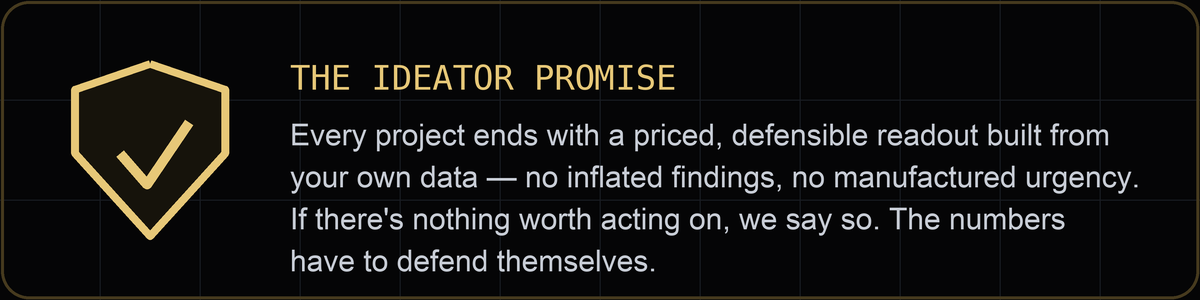
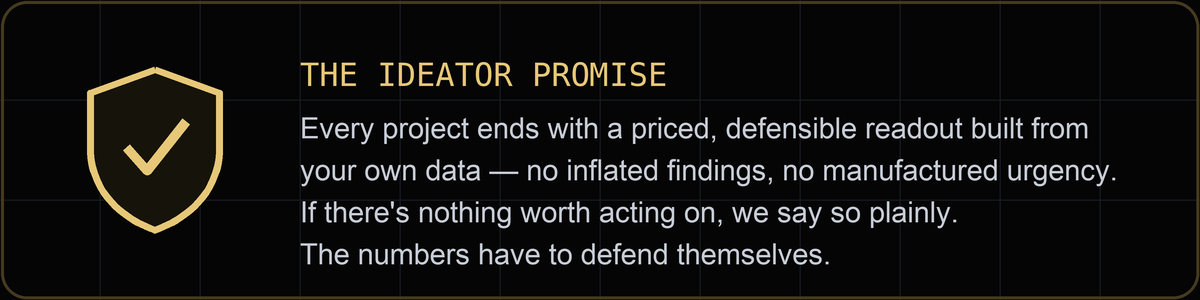
feat: full-site README — gold section headers, all sections, fixed shield

diff --git a/profile/README.md b/profile/README.md
@@ -1,4 +1,4 @@
-<img src="https://raw.githubusercontent.com/ideatorlabs/.github/main/assets/banner.png" alt="Ideator Labs — We find the margin. Then we build the machine." width="100%">
+<img src="https://raw.githubusercontent.com/ideatorlabs/.github/main/assets/banner.png" width="100%" alt="Ideator Labs — We find the margin. Then we build the machine.">
 
 <p align="center">
   <a href="https://ideatorlabs.github.io"><img src="https://img.shields.io/badge/site-ideatorlabs.github.io-E7C878?style=flat-square&labelColor=050506" alt="Website"></a>
@@ -6,34 +6,72 @@
   <img src="https://img.shields.io/badge/base-India_·_remote_worldwide-9BA0AC?style=flat-square&labelColor=050506" alt="Location">
 </p>
 
-**Ideator Labs** is an early-stage AI studio — an advisory approach and a set of venture experiments. The idea: apply the scientific method to business operations (hypothesis → instrumentation → measurement → verdict), then engineer the AI and automation that capture what the measurements expose. Built in the open, one project at a time.
+**Ideator Labs** is an early-stage AI studio — an advisory approach and a set of venture experiments. The idea: apply the scientific method to business operations (hypothesis → instrumentation → measurement → verdict), then engineer the AI and automation that capture what the measurements expose. Fixed-scope, senior-only, built in the open — one project at a time.
 
-## 🔬 Advisory — the approach
+> **We find the margin. Then we build the machine.**
 
-| | |
+<br>
+
+<img src="https://raw.githubusercontent.com/ideatorlabs/.github/main/assets/hdr-findings.png" width="100%" alt="Field Findings — what the data keeps showing">
+
+The same patterns show up in nearly every operations-heavy business — professional services, logistics & distribution, manufacturing, multi-site healthcare. Each is measurable, and each is money.
+
+| Signal | Finding |
 |---|---|
-| **Diagnostic Sprint** | 2–4 weeks. We mine your data and price every leak — a priced opportunity map you own either way. |
-| **Roadmap & Business Case** | The sequenced 12-month plan, every initiative costed with its payback period. |
-| **Build Retainer** | Document AI, workflow automation, KPI dashboards, AI copilots — shipped monthly, measured against baseline. |
-| **Advisory** | Quarterly business reviews, accountable to the cumulative value number — not to slides. |
+| **Profitability** | **15–30%** of customers are typically unprofitable — invisible until margin is measured per customer / SKU / job |
+| **Capacity** | **20–40%** of admin payroll goes to manual work AI can now do — documents, rekeying, status-chasing, reconciliation |
+| **Pricing** | one point of unmanaged pricing moves profit **8–12%** — the highest-ROI fix that exists |
+| **Service** | **30–60%** cut in cost-per-contact with AI deflection, drafting & triage — CSAT held or improved |
+| **Cash** | **$500k–$5M** routinely freed from the cash-conversion cycle — billing lag, collections, over-ordered inventory |
+| **Systems** | only **~20%** of the ERP/CRM most companies pay for is actually used — while the workarounds cost more |
+
+→ Try the **[live profit-leak estimator](https://ideatorlabs.github.io)** — six one-tap signals, your own estimate, entirely on-device.
+
+<img src="https://raw.githubusercontent.com/ideatorlabs/.github/main/assets/hdr-method.png" width="100%" alt="The Method — VALUE OS">
+
+Every engagement runs one disciplined protocol. No opinions without instruments; no recommendations without a number attached.
+
+| Stage | | What happens |
+|---|---|---|
+| **01 · Baseline** | days 1–5 | Observe the system — interviews, systems inventory, data extraction |
+| **02 · Diagnose** | days 5–12 | Form & test hypotheses on a MECE issue tree — confirmed / refuted / inconclusive |
+| **03 · Quantify** | days 10–15 | Price every finding — margin waterfalls, time-and-volume studies, the value map |
+| **04 · Design** | days 12–21 | Sequence the fixes — impact-vs-effort, 12-month roadmap, business case per initiative |
+| **05 · Drive** | ongoing | Build & measure realization against the baseline — reported as cumulative value |
+
+<img src="https://raw.githubusercontent.com/ideatorlabs/.github/main/assets/hdr-services.png" width="100%" alt="Services — four ways to engage">
+
+Every relationship starts small and fixed-fee. Each step is earned by finding money in the one before it.
+
+| | Engagement | Shape |
+|---|---|---|
+| **01 · Diagnose** | Diagnostic Sprint | fixed fee · 2–4 wks — a priced opportunity map you own either way |
+| **02 · Design** | Roadmap & Business Case | fixed fee · 3–8 wks — every initiative costed with its payback period |
+| **03 · Deliver** | Build Retainer | monthly · 3–12 mo — document AI, automation, dashboards, copilots; measured vs baseline |
+| **04 · Drive** | Advisory | monthly · ongoing — quarterly reviews, accountable to the cumulative value number |
 
 <img src="https://raw.githubusercontent.com/ideatorlabs/.github/main/assets/promise.png" width="100%" alt="The Ideator Promise — the numbers have to defend themselves.">
 
-→ Try the **[live leak estimator](https://ideatorlabs.github.io)** — six one-tap signals, your estimated annual leak, entirely on-device.
+<img src="https://raw.githubusercontent.com/ideatorlabs/.github/main/assets/hdr-lab.png" width="100%" alt="The Lab — ventures & research">
 
-## 🧪 The Lab — ventures & research
+Advisory is the approach. The Lab is the venture side — independent products being built with the same engineering, plus the open research beneath them.
 
-| Project | What it is | Status |
+| Venture | What it is | Status |
 |---|---|---|
 | **LeadHive** | AI Marketplace 2.0 — a Growth OS for service businesses. Signals → intent graph → agents → outcomes. | Active build · private |
-| **Reflex** | Autonomous data engine — declare the outcome, pipelines plan, run, heal, and learn on their own. | Early build |
-| [**CORTEX**](https://github.com/ideatorlabs/cortex) | Composable orchestration for LLM agents, tools & agent-to-agent exchange. | Open research |
-| [**YAMCP**](https://github.com/ideatorlabs/cortex/tree/main/yamcp) | Multi-transport MCP tool server — scale agent tooling over HTTP / WS / CLI. | v0.1 testing |
-| **Brain** | Context-aware memory for AI assistants — auto project classification, privacy tiers. | Early research · private |
+| **Reflex** | Autonomous data engine — declare the outcome; pipelines plan, run, heal, and learn. | Early build |
 
-*Everything we recommend to clients has survived our own lab first.*
+| Open research | | Status |
+|---|---|---|
+| [**CORTEX**](https://github.com/ideatorlabs/cortex) | Composable orchestration for LLM agents, tools & agent-to-agent exchange | Open research |
+| [**YAMCP**](https://github.com/ideatorlabs/cortex/tree/main/yamcp) | Multi-transport Model Context Protocol tool server — HTTP / WS / CLI | v0.1 testing |
+| **Brain** | Context-aware AI memory — project classification, privacy tiers, retrieval | Early research · private |
 
-## 📮 Contact
+*Everything we recommend has survived our own lab first.*
+
+<img src="https://raw.githubusercontent.com/ideatorlabs/.github/main/assets/hdr-contact.png" width="100%" alt="Contact — start with a capacity review">
+
+Bring one broken process or one suspicious number. In 25 minutes we'll tell you whether there's a figure worth finding — and if there isn't, we'll say so.
 
 **hello@ideatorlabs.dev** · [ideatorlabs.github.io](https://ideatorlabs.github.io)
 
